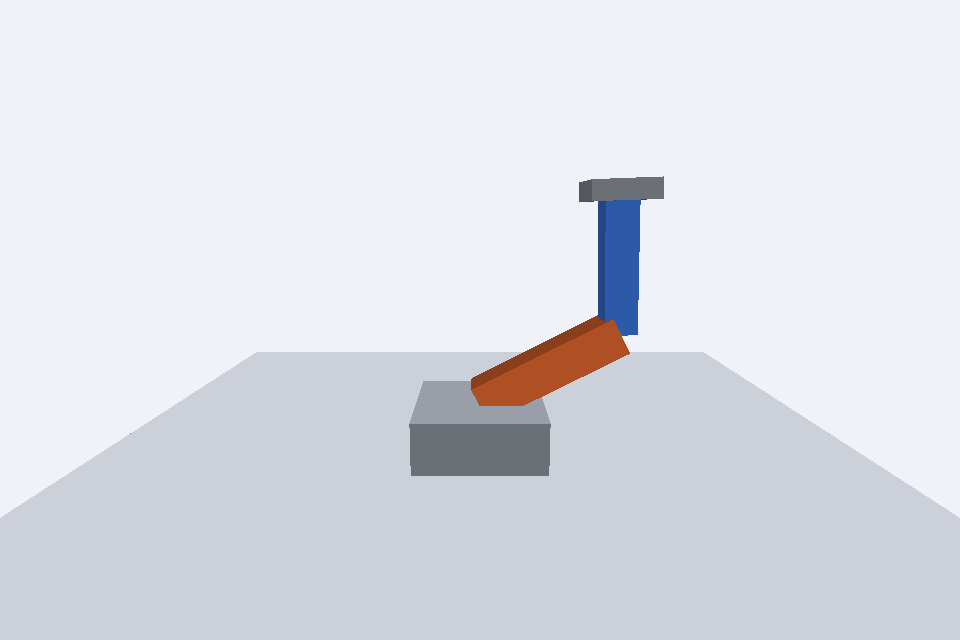
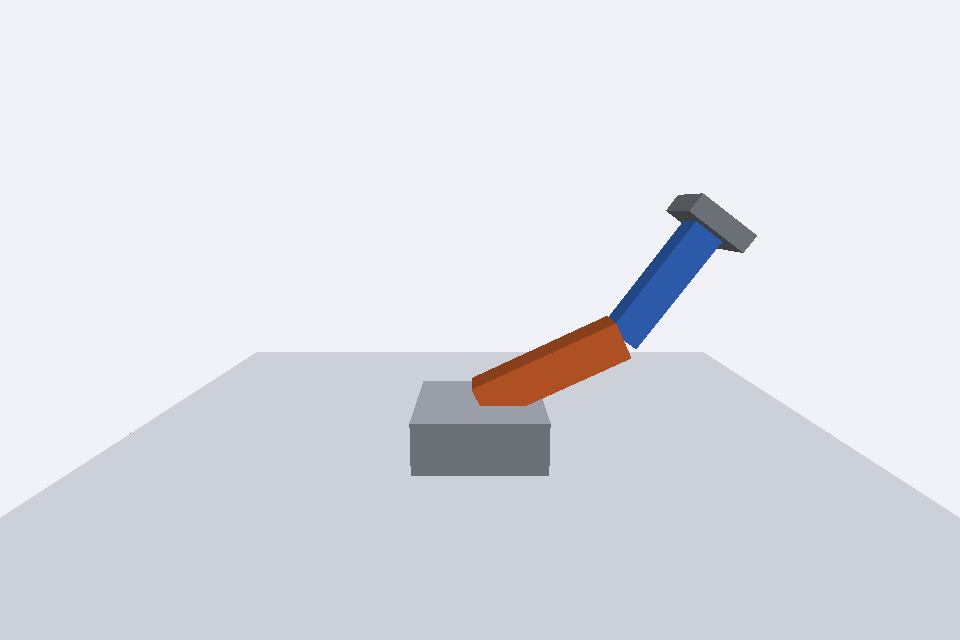
fix: ajusta atividade do braço e atualiza capturas

Changed region(s): [[0.5312, 0.25, 0.7812, 0.5938], [0.5625, 0.5938, 0.5938, 0.625]]

diff --git a/Aula_GrafoCena/alunos/atividade_braco.py b/Aula_GrafoCena/alunos/atividade_braco.py
@@ -1,6 +1,7 @@
-# ATIVIDADE: braço robótico com grafo de cena.[cite: 2]
-# Leia ATIVIDADE.md e complete os trechos marcados com TODO.[cite: 2]
-# ESC fecha. P salva capturas/resultado.png para a entrega.[cite: 2]
+
+# ATIVIDADE: braço robótico com grafo de cena.
+# ESC fecha. P salva capturas/resultado.png para a entrega.
+
 import argparse
 
 from core.base import Base
@@ -13,6 +14,7 @@ from formas import caixa
 CINZA = [0.6, 0.62, 0.66]
 LARANJA = [0.98, 0.45, 0.2]
 AZUL = [0.25, 0.5, 0.95]
+
 VELOCIDADE = 2.0
 
 
@@ -21,38 +23,42 @@ class Braco(Base):
     def initialize(self):
         self.renderer = Renderer()
         self.scene = Scene()
+
         self.camera = Camera(aspectRatio=960 / 640)
         self.camera.setPosition([0, 1.9, 4.2])
         self.camera.rotateX(-0.2)
 
+        # Chão
         chao = caixa(6, 0.1, 6, [0.8, 0.82, 0.85])
         chao.setPosition([0, -0.05, 0])
         self.scene.add(chao)
 
-        # Base: caixa de altura 0.4, apoiada no chão[cite: 2]
+        # Base do braço robótico
         self.base = caixa(1.0, 0.4, 1.0, CINZA)
         self.base.setPosition([0, 0.2, 0])
         self.scene.add(self.base)
 
-        # TODO 1: Ombro e braço
+        # Pivô do ombro, localizado no topo da base
         self.ombro = Object3D()
         self.ombro.setPosition([0, 0.2, 0])
         self.base.add(self.ombro)
 
+        # Braço superior laranja
         braco = caixa(0.3, 1.2, 0.3, LARANJA)
         braco.setPosition([0, 0.6, 0])
         self.ombro.add(braco)
 
-        # TODO 2: Cotovelo e antebraço
+        # Pivô do cotovelo, na extremidade do braço superior
         self.cotovelo = Object3D()
         self.cotovelo.setPosition([0, 1.2, 0])
         self.ombro.add(self.cotovelo)
 
+        # Antebraço azul
         antebraco = caixa(0.25, 1.0, 0.25, AZUL)
         antebraco.setPosition([0, 0.5, 0])
         self.cotovelo.add(antebraco)
 
-        # TODO 3: Garra
+        # Garra cinza na extremidade do antebraço
         garra = caixa(0.5, 0.15, 0.5, CINZA)
         garra.setPosition([0, 1.075, 0])
         self.cotovelo.add(garra)
@@ -60,35 +66,38 @@ class Braco(Base):
     def update(self):
         angulo = VELOCIDADE * self.deltaTime
 
-        # Verificação de teclas compatível com o framework da Aula_GrafoCena
-        # Se a sua base usa keyboard, tentamos capturar via método direto ou atributo de input se existir
-        # Caso o seu core/base.py utilize outra forma, verifique abaixo:
-
-        # Tentativa de leitura genérica para frameworks educacionais de OpenGL em Python:
-        is_pressed = getattr(self, "isKeyDown", None) or (lambda key: False)
-
-        # TODO 4: A e D giram a base (e todo o braço) em torno do eixo Y[cite: 2]
-        if self.isKeyPressed("a") if hasattr(self, "isKeyPressed") else is_pressed("a"):
+        # A / D: girar a base e todo o braço em torno do eixo Y
+        if self.isKeyPressed("a"):
             self.base.rotateY(angulo)
-        if self.isKeyPressed("d") if hasattr(self, "isKeyPressed") else is_pressed("d"):
+
+        if self.isKeyPressed("d"):
             self.base.rotateY(-angulo)
 
-        # TODO 5: W e S giram o ombro; I e K giram o cotovelo, em torno do eixo Z[cite: 2]
-        if self.isKeyPressed("w") if hasattr(self, "isKeyPressed") else is_pressed("w"):
+        # W / S: movimentar o ombro em torno do eixo Z
+        if self.isKeyPressed("w"):
             self.ombro.rotateZ(angulo)
-        if self.isKeyPressed("s") if hasattr(self, "isKeyPressed") else is_pressed("s"):
+
+        if self.isKeyPressed("s"):
             self.ombro.rotateZ(-angulo)
-        if self.isKeyPressed("i") if hasattr(self, "isKeyPressed") else is_pressed("i"):
+
+        # I / K: movimentar o cotovelo em torno do eixo Z
+        if self.isKeyPressed("i"):
             self.cotovelo.rotateZ(angulo)
-        if self.isKeyPressed("k") if hasattr(self, "isKeyPressed") else is_pressed("k"):
+
+        if self.isKeyPressed("k"):
             self.cotovelo.rotateZ(-angulo)
 
         self.renderer.render(self.scene, self.camera)
 
 
-if __name__ == '__main__':
+if __name__ == "__main__":
     parser = argparse.ArgumentParser()
-    parser.add_argument('--frames', type=int)
-    parser.add_argument('--screenshot')
+    parser.add_argument("--frames", type=int)
+    parser.add_argument("--screenshot")
+
     args = parser.parse_args()
-    Braco(title='Atividade: braço robótico').run(args.frames, args.screenshot)
+
+    Braco(title="Atividade: braço robótico").run(
+        args.frames,
+        args.screenshot
+    )
